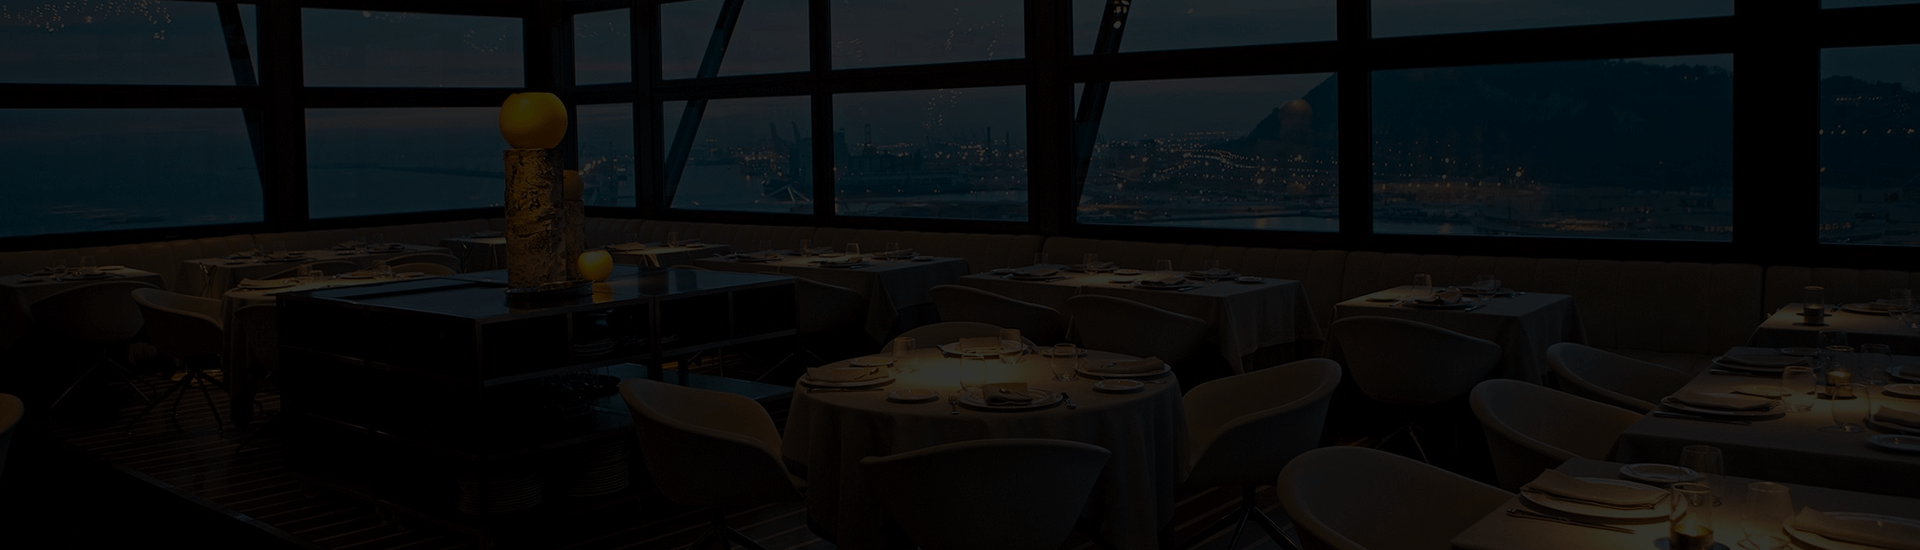
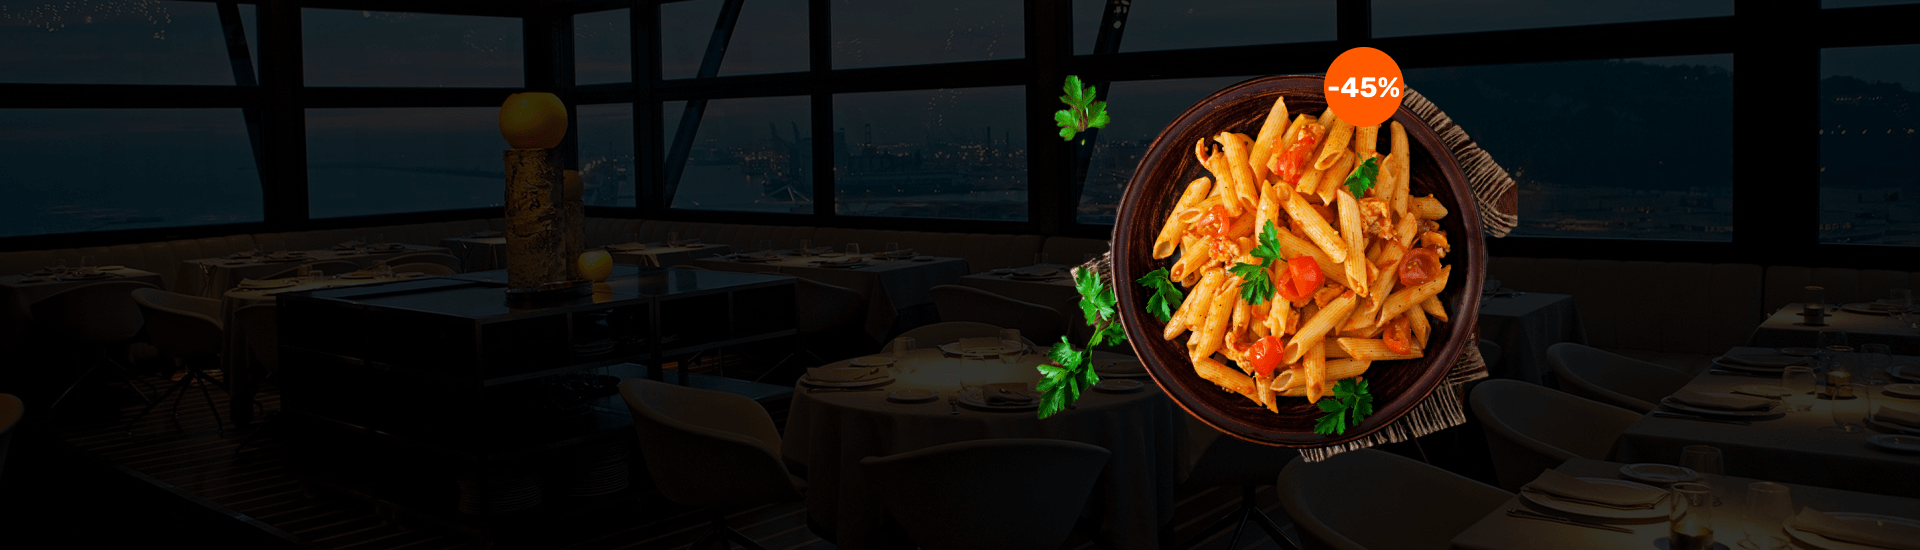
Add files via upload

Changed region(s): [[0.5312, 0.0618, 0.8125, 0.8345]]

diff --git a/src/components/Card/Card.module.css b/src/components/Card/Card.module.css
@@ -1,23 +1,65 @@
 .container {
-    padding: 0 0 1em 0;
-    margin-top: .5em;
-    width: 282px;
-    background-color: var(--cinza);
     display: flex;
-    flex-direction: column;
-    justify-content: space-between;
+    justify-content: center;
+    align-items: center;
+    text-align: center;
+    margin: 0 0.2em 0.5em;
 }
-
-.capa {
-    width: 100%;
-}
-
-.container h2 {
-    padding: 0 1em;
+.container img {
+    width: 250px;
 }
 
 .link {
     text-decoration: none;
     color: var(--preto);
-    text-align: left;
+}
+
+.link__fundo {
+    background-color: var(--laranja-claro);
+    border-radius: 8px;
+    width: 220px;
+    height: 130px;
+    padding: 0.1em 0;
+    margin: 0 0 0 0.8em;    
+}
+
+.link__fundo:hover {
+    background-color: var(--laranja);
+}
+
+.link__fundo h2 {
+    font-size: 20px;
+    font-weight: 500;
+    text-align: center;
+    margin: 0.5em 0;
+}
+
+.link__fundo p {
+    font-size: 12px;
+    font-weight: 400;
+    text-align: center;
+    margin: 1em 0;
+}
+
+.link__botao {
+    display: flex;
+    justify-content: space-between;
+    padding: 0em 1em;
+    align-items: center;
+    margin: 0.4em 0;
+}
+
+.link__botao button {
+    background-color: var(--laranja-claro);
+    border: 1px solid var(--laranja);
+    border-radius: 8px;
+    width: 80px;
+    height: 23px;
+    font-size: 14px;
+}
+
+.link__botao button:hover {
+    background-color: var(--preto);
+    color: var(--branco);
+    border: none;
 }

diff --git a/src/components/Categorias/index.js b/src/components/Categorias/index.js
@@ -1,0 +1,42 @@
+import styles from './Categorias.module.css';
+import bolo from './img/bolo.png';
+import sushi from './img/sushi.png';
+import esfirra from './img/esfirra.png';
+import bebidas from './img/bebidas.png';
+import hamburguer from './img/hamburguer.png';
+import vegano from './img/vegano.png';
+
+function Categorias() {
+    return (
+        <section className={styles.categorias}>
+            <div className={styles.categorias__botao}>
+            <button>
+                <img src={bolo} alt="icone de bolo" />
+                <p>Bolos/Doces</p>
+            </button>
+            <button>
+                <img src={sushi} alt="icone de bolo" />
+                <p>Sushi</p>
+            </button>
+            <button>
+                <img src={esfirra} alt="icone de bolo" />
+                <p>Esfirras</p>
+            </button>
+            <button>
+                <img src={bebidas} alt="icone de bolo" />
+                <p>Bebidas</p>
+            </button>
+            <button>
+                <img src={hamburguer} alt="icone de bolo" />
+                <p>Hambúrgueres</p>
+            </button>
+            <button>
+                <img src={vegano} alt="icone de bolo" />
+                <p>Veganos</p>
+            </button>
+            </div>
+        </section>
+    )
+}
+
+export default Categorias;

diff --git a/src/components/Card/index.js b/src/components/Card/index.js
@@ -1,16 +1,23 @@
 import styles from './Card.module.css';
 import { Link } from 'react-router-dom';
 
-function Card ({ id, titulo, imagem, descricao, preco }) {
+function Card({ id, titulo, imagem, descricao, preco }) {
 
     return (
         <div className={styles.container}>
             <Link className={styles.link} to={`/${id}`}>
-            <img src={imagem} alt={titulo} className={styles.capa} />
-            <h2>{titulo}</h2>
-            <p>{descricao}</p>
-            <p>{preco}</p>
-            </Link>      
+                <img src={imagem} alt={titulo} className={styles.capa} />
+                <div className={styles.link__fundo}>
+
+                    <h2>{titulo}</h2>
+                    <p>{descricao}</p>
+                    <div className={styles.link__botao}>
+                        <p>{preco}</p>
+                        <button>PEDIR</button>
+                    </div>
+
+                </div>
+            </Link>
         </div>
     )
 }

diff --git a/src/pages/Inicio/SextoElemento/index.js b/src/pages/Inicio/SextoElemento/index.js
@@ -6,8 +6,8 @@ function SextoElemento() {
         <section className={styles.elemento}>
             <div className={styles.elemento__texto}>
                 <h1>Grandes ofertas do dia.</h1>
-                <p>Venha nos visitar e experimente a nossa culinária incrível. não perca a chance de aproveitar as nossas grandes ofertas do dia!</p>
-                <p>Aproveite os melhores pratos do nosso cardápio com preços imperdíveis.</p>
+                <p>Venha nos visitar e experimente a nossa <br></br>culinária incrível. não perca a chance de <br></br>aproveitar as nossas grandes ofertas do dia!</p>
+                <p>Aproveite os melhores pratos do nosso <br></br>cardápio com preços imperdíveis.</p>
                 <div className={styles.elemento__botoes}>
                     <button className={styles.elemento__laranja}>VER CARDÁPIO</button>
                 </div>

diff --git a/src/pages/Inicio/QuintoElemento/index.js b/src/pages/Inicio/QuintoElemento/index.js
@@ -1,4 +1,5 @@
 import Card from 'components/Card';
+import Categorias from 'components/Categorias';
 import { useEffect, useState } from 'react';
 import styles from './QuintoElemento.module.css';
 
@@ -15,13 +16,17 @@ function QuintoElemento() {
     }, [])
 
     return (
-        <>
-            <section className={styles.container}>
+        <section className={styles.elemento}>
+            <div>
+                <Categorias />
+            </div>
+            <div className={styles.container}>
                 {cardapio.map((cardapio) => {
                     return <Card {...cardapio} key={cardapio.id} />
                 })}
-            </section>
-        </>
+            </div>
+        
+        </section>
     )
 }
 

diff --git a/src/components/Categorias/Categorias.module.css b/src/components/Categorias/Categorias.module.css
@@ -1,0 +1,36 @@
+.categorias {
+    background-color: var(--laranja-claro);
+    width: 316px;
+    height: 476px;
+    border-radius: 8px;
+    margin: 0 1em 3em;
+}
+
+.categorias__botao {
+    display: flex;
+    flex-direction: column;
+    justify-content: center;
+    align-items: center;
+}
+
+.categorias button {
+    display: flex;
+    align-items: center;
+    width: 276px;
+    height: 60px;
+    background-color: var(--branco);
+    border-radius: 8px;
+    border: none;
+    margin: 1em 1em 0 1em;
+}
+
+.categorias button p {
+    font-family: var(--fonte);
+    font-size: 20px;
+    font-weight: 400;
+    margin-left: 1em;
+}
+
+.categorias button:hover {
+    background-color: var(--laranja);
+}

diff --git a/src/components/Tags/index.js b/src/components/Tags/index.js
@@ -1,0 +1,22 @@
+import React from 'react';
+import styles from './Tags.module.scss'
+import fotos from '../Galeria/fotos.json';
+// import { Container } from './styles';
+
+export default function Tags({tags, filtrarFotos, setItens}) {
+  return (
+    <div className={styles.tags}>
+        <p>Filtre por tags:</p>
+        <ul className={styles.tags__lista}>
+           {tags.map((tag) => {
+              return (
+              <li key={tag} onClick={() =>filtrarFotos(tag)}>
+                {tag}
+                </li>
+              ); 
+            })}
+           <li onClick={()=> setItens(fotos)}>Todas</li>
+        </ul>
+    </div>
+  );
+}

diff --git a/src/components/Rodape/index.js b/src/components/Rodape/index.js
@@ -3,7 +3,7 @@ import styles from './Rodape.module.css';
 function Rodape() {
     return (
         <footer className={styles.rodape}>
-            <p>Copyright © 2023. Todos os direitos reservados. Desenvolvido por JonasNunes.</p>
+            <p>Copyright © 2023. Todos os direitos reservados. Codificação por Bruno Holanda / Design por JonasNunes.</p>
         </footer>
     )
 }

diff --git a/src/pages/Inicio/SextoElemento/SextoElemento.module.css b/src/pages/Inicio/SextoElemento/SextoElemento.module.css
@@ -2,7 +2,7 @@
     background-image: url('./bg.png');
     background-repeat: none;
     width: 100%;
-    height: 300px;
+    height: 550px;
     display: flex;
     justify-content: space-between;
 

diff --git a/src/pages/Inicio/QuintoElemento/QuintoElemento.module.css b/src/pages/Inicio/QuintoElemento/QuintoElemento.module.css
@@ -1,0 +1,9 @@
+.elemento {
+    display: flex;
+    justify-content: center;
+}
+
+.container {
+    display: grid;
+    grid-template-columns: 1fr 1fr 1fr;
+}
